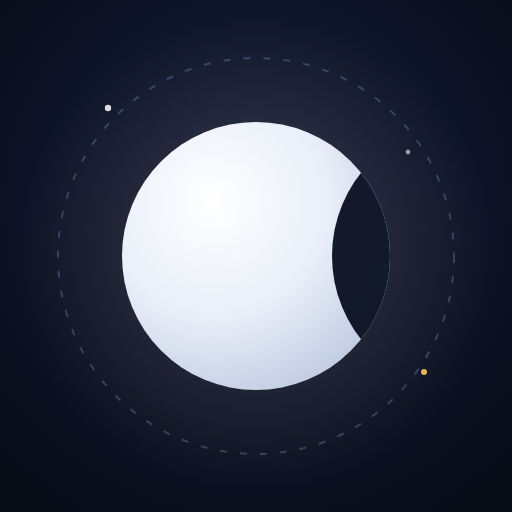
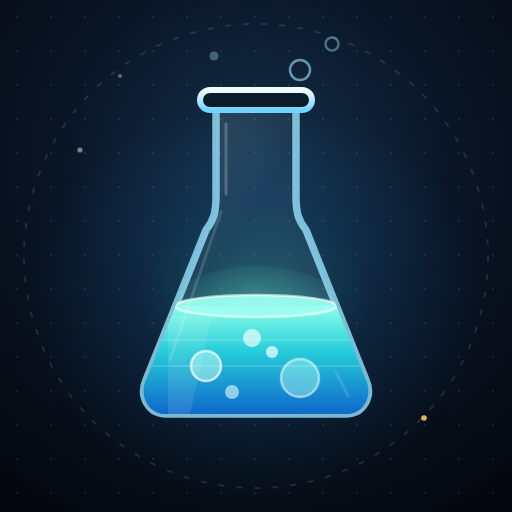
补全 Skill frontmatter（version / 中英文展示名与描述）+ 换成化学实验主题头像

diff --git a/assets/icon.html b/assets/icon.html
@@ -4,48 +4,113 @@
 <meta charset="utf-8">
 <style>
   * { margin:0; padding:0; box-sizing:border-box; }
-  html,body { width:512px; height:512px; overflow:hidden; background:#0A0F1E; }
+  html,body { width:512px; height:512px; overflow:hidden; background:#060A12; }
   svg { display:block; }
 </style>
 </head>
 <body>
 <svg width="512" height="512" viewBox="0 0 512 512">
   <defs>
-    <radialGradient id="bg" cx="50%" cy="40%" r="72%">
-      <stop offset="0%" stop-color="#182140"/>
-      <stop offset="100%" stop-color="#070B16"/>
+    <radialGradient id="bg" cx="50%" cy="32%" r="80%">
+      <stop offset="0%" stop-color="#14304A"/>
+      <stop offset="48%" stop-color="#0A1526"/>
+      <stop offset="100%" stop-color="#04070D"/>
     </radialGradient>
-    <radialGradient id="moon" cx="34%" cy="30%" r="78%">
-      <stop offset="0%" stop-color="#FFFFFF"/>
-      <stop offset="55%" stop-color="#E9EEF8"/>
-      <stop offset="100%" stop-color="#C0CBE0"/>
-    </radialGradient>
+
     <radialGradient id="glow" cx="50%" cy="50%" r="50%">
-      <stop offset="0%" stop-color="#FFD79A" stop-opacity="0.30"/>
-      <stop offset="55%" stop-color="#FFD79A" stop-opacity="0.07"/>
-      <stop offset="100%" stop-color="#FFD79A" stop-opacity="0"/>
+      <stop offset="0%" stop-color="#3FE3CE" stop-opacity="0.30"/>
+      <stop offset="52%" stop-color="#1C8FD6" stop-opacity="0.12"/>
+      <stop offset="100%" stop-color="#1C8FD6" stop-opacity="0"/>
     </radialGradient>
-    <clipPath id="clip">
-      <circle cx="256" cy="256" r="134"/>
+
+    <radialGradient id="liquidGlow" cx="50%" cy="46%" r="52%">
+      <stop offset="0%" stop-color="#6FF3DC" stop-opacity="0.55"/>
+      <stop offset="100%" stop-color="#6FF3DC" stop-opacity="0"/>
+    </radialGradient>
+
+    <linearGradient id="liquid" x1="0" y1="0" x2="0" y2="1">
+      <stop offset="0%" stop-color="#8CFFE8"/>
+      <stop offset="38%" stop-color="#25CCD9"/>
+      <stop offset="100%" stop-color="#0A55C8"/>
+    </linearGradient>
+
+    <linearGradient id="glass" x1="0" y1="0" x2="1" y2="1">
+      <stop offset="0%" stop-color="#FFFFFF" stop-opacity="0.18"/>
+      <stop offset="42%" stop-color="#BEEBFF" stop-opacity="0.045"/>
+      <stop offset="100%" stop-color="#7FD8FF" stop-opacity="0.13"/>
+    </linearGradient>
+
+    <linearGradient id="rim" x1="0" y1="0" x2="0" y2="1">
+      <stop offset="0%" stop-color="#F2FFFF"/>
+      <stop offset="100%" stop-color="#6FD4FF"/>
+    </linearGradient>
+
+    <pattern id="grid" width="34" height="34" patternUnits="userSpaceOnUse">
+      <circle cx="17" cy="17" r="1.3" fill="#8FE3FF" fill-opacity="0.09"/>
+    </pattern>
+
+    <clipPath id="flaskClip">
+      <path d="M 216 100 L 216 196 C 216 212 214 220 206 230 L 146 380 C 139 396 148 414 166 414 L 346 414 C 364 414 373 396 366 380 L 306 230 C 298 220 296 212 296 196 L 296 100 Z"/>
     </clipPath>
   </defs>
 
   <rect width="512" height="512" fill="url(#bg)"/>
-  <circle cx="256" cy="256" r="240" fill="url(#glow)"/>
+  <rect width="512" height="512" fill="url(#grid)"/>
+  <ellipse cx="256" cy="300" rx="228" ry="204" fill="url(#glow)"/>
 
   <!-- 轨道环 -->
-  <circle cx="256" cy="256" r="198" fill="none" stroke="#7FA6E8" stroke-opacity="0.30" stroke-width="2" stroke-dasharray="7 13"/>
+  <circle cx="256" cy="256" r="232" fill="none" stroke="#7FD8FF" stroke-opacity="0.15" stroke-width="2" stroke-dasharray="6 12"/>
 
-  <!-- 月球：亮面 + 右缘暗弧（表示“圆缺是角度问题”） -->
-  <circle cx="256" cy="256" r="134" fill="url(#moon)"/>
-  <g clip-path="url(#clip)">
-    <circle cx="466" cy="256" r="134" fill="#0A1122" fill-opacity="0.96"/>
+  <!-- 瓶身玻璃 -->
+  <path d="M 216 100 L 216 196 C 216 212 214 220 206 230 L 146 380 C 139 396 148 414 166 414 L 346 414 C 364 414 373 396 366 380 L 306 230 C 298 220 296 212 296 196 L 296 100 Z"
+        fill="url(#glass)" stroke="#9CE6FF" stroke-opacity="0.78" stroke-width="7.5" stroke-linejoin="round"/>
+
+  <g clip-path="url(#flaskClip)">
+    <ellipse cx="256" cy="352" rx="120" ry="86" fill="url(#liquidGlow)"/>
+
+    <!-- 液体 -->
+    <rect x="130" y="306" width="252" height="120" fill="url(#liquid)"/>
+    <ellipse cx="256" cy="306" rx="81" ry="11" fill="#9CFFF1" fill-opacity="0.95"/>
+    <ellipse cx="256" cy="306" rx="81" ry="11" fill="none" stroke="#FFFFFF" stroke-opacity="0.6" stroke-width="2.5"/>
+
+    <!-- 液面下扫描线 -->
+    <g stroke="#DFFFFA" stroke-opacity="0.16" stroke-width="2">
+      <path d="M 150 340 L 362 340"/>
+      <path d="M 150 366 L 362 366"/>
+    </g>
+
+    <!-- 反光条 -->
+    <path d="M 168 316 L 212 316 L 190 414 L 168 414 Z" fill="#FFFFFF" fill-opacity="0.10"/>
+
+    <!-- 气泡 -->
+    <circle cx="206" cy="366" r="15" fill="#C9FFF7" fill-opacity="0.5"/>
+    <circle cx="206" cy="366" r="15" fill="none" stroke="#FFFFFF" stroke-opacity="0.7" stroke-width="2.5"/>
+    <circle cx="252" cy="338" r="9" fill="#E9FFFC" fill-opacity="0.7"/>
+    <circle cx="300" cy="378" r="19" fill="#B9FFF4" fill-opacity="0.42"/>
+    <circle cx="300" cy="378" r="19" fill="none" stroke="#FFFFFF" stroke-opacity="0.5" stroke-width="2.5"/>
+    <circle cx="272" cy="352" r="6" fill="#FFFFFF" fill-opacity="0.7"/>
+    <circle cx="232" cy="392" r="7" fill="#E6FFFB" fill-opacity="0.6"/>
+
+    <!-- 玻璃内高光 -->
+    <g stroke="#FFFFFF" stroke-linecap="round" fill="none">
+      <path d="M 226 124 L 226 194" stroke-opacity="0.22" stroke-width="3"/>
+      <path d="M 221 212 L 170 360" stroke-opacity="0.14" stroke-width="3"/>
+      <path d="M 336 372 L 348 396" stroke-opacity="0.12" stroke-width="3"/>
+    </g>
   </g>
 
+  <!-- 瓶口 -->
+  <rect x="200" y="90" width="112" height="20" rx="10" fill="#0B1B2C" stroke="url(#rim)" stroke-width="6"/>
+
+  <!-- 溢出气泡 -->
+  <circle cx="300" cy="70" r="10" fill="none" stroke="#9CE6FF" stroke-opacity="0.6" stroke-width="2.5"/>
+  <circle cx="332" cy="44" r="6.5" fill="none" stroke="#9CE6FF" stroke-opacity="0.42" stroke-width="2.5"/>
+  <circle cx="214" cy="56" r="4.5" fill="#9CE6FF" fill-opacity="0.35"/>
+
   <!-- 星点 -->
-  <circle cx="108" cy="108" r="3.2" fill="#FFFFFF" fill-opacity="0.85"/>
-  <circle cx="408" cy="152" r="2.4" fill="#FFFFFF" fill-opacity="0.55"/>
-  <circle cx="424" cy="372" r="3" fill="#FFC857" fill-opacity="0.9"/>
+  <circle cx="80" cy="150" r="2.6" fill="#FFFFFF" fill-opacity="0.45"/>
+  <circle cx="120" cy="76" r="2" fill="#FFFFFF" fill-opacity="0.35"/>
+  <circle cx="424" cy="418" r="2.8" fill="#FFC857" fill-opacity="0.9"/>
 </svg>
 </body>
 </html>

diff --git a/SKILL.md b/SKILL.md
@@ -1,6 +1,11 @@
 ---
 name: axing-science-video
+version: 1.0.0
+display_name: 阿星科普视频制作
+display_name_en: Axing Science Video
 description: 用 Remotion 代码画一条横屏科普动画短片（45 秒左右），配 MiniMax 中文解说、逐句字幕和 CC0 背景音乐，导出 mp4。当用户要做科普视频、知识短视频、原理动画、月相/四季/彩虹/行星这类"讲清楚一个现象"的动画视频，或提到 Remotion 科普片时使用。
+description_zh: 用代码画横屏科普动画短片：先出分镜等你确认，再自动铺 Remotion 项目、合成中文解说、按语音长度定每屏时长、逐屏写画面并截图自检，最后渲染出带字幕和背景音乐的 1080p mp4。
+description_en: Produce a 45-second landscape science explainer video with Remotion. It writes a six-beat storyboard for approval, scaffolds the project, generates Mandarin narration with MiniMax TTS, times each scene to the real audio length, builds each scene in code with self-checked screenshots, and renders a 1080p MP4 with captions and CC0 music.
 ---
 
 # 科普视频 Skill
